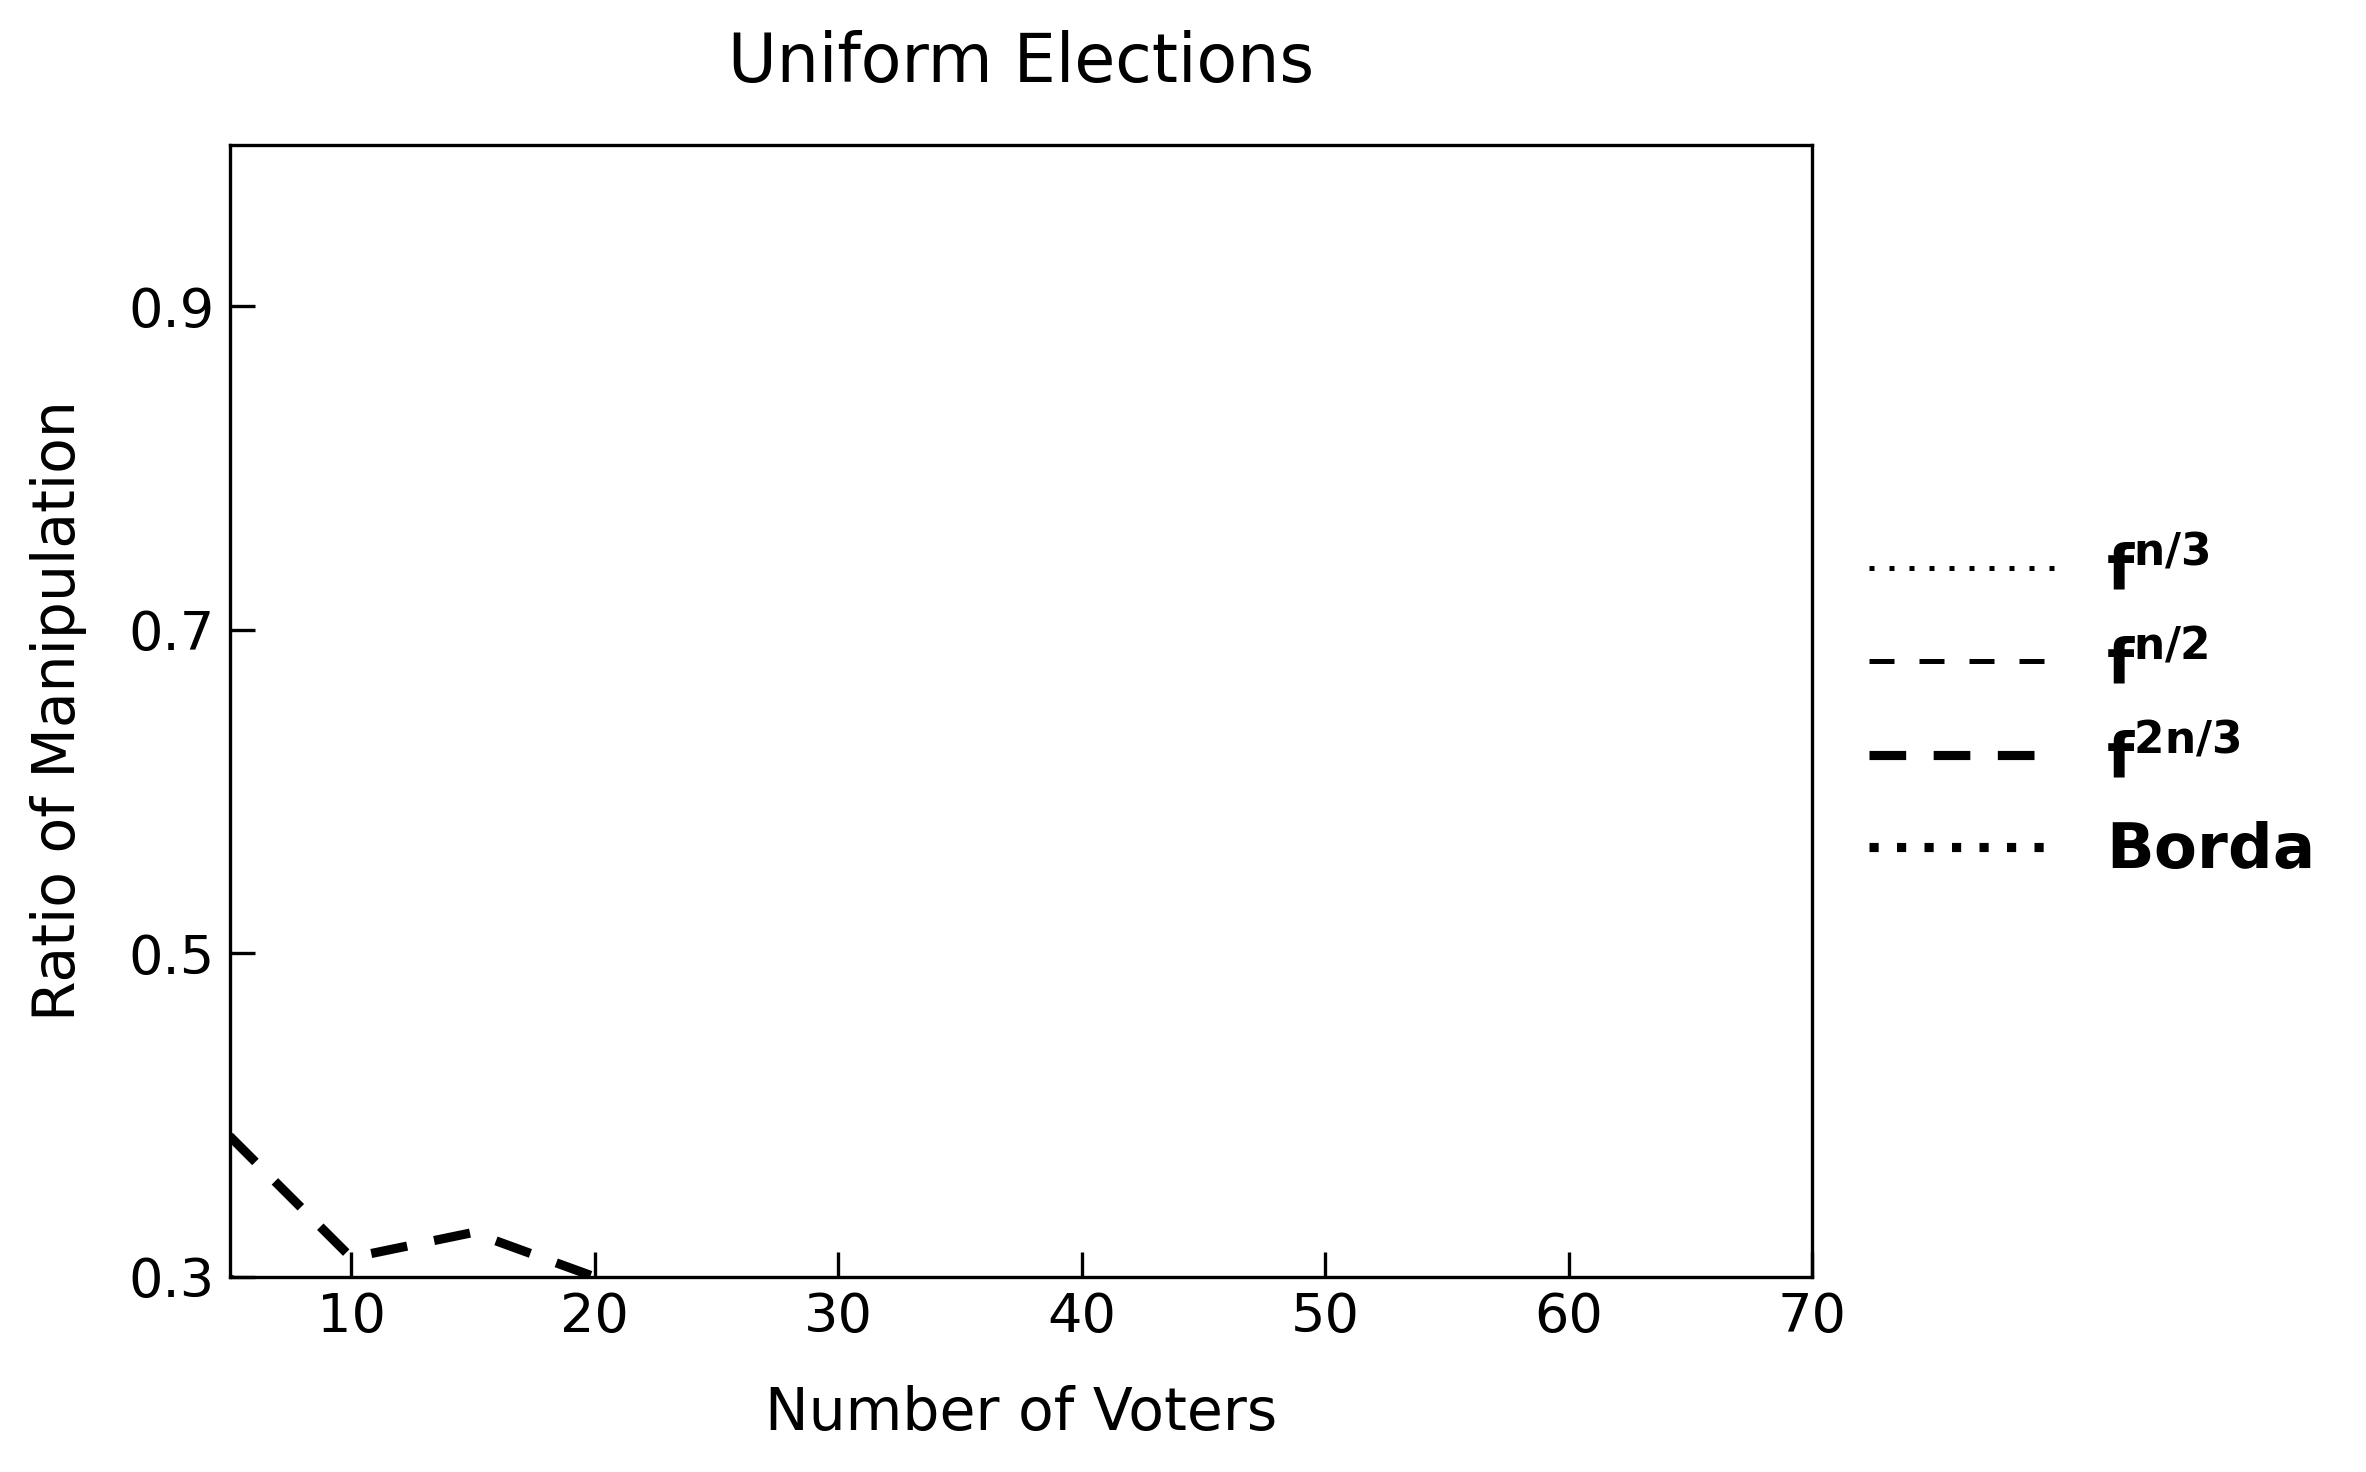
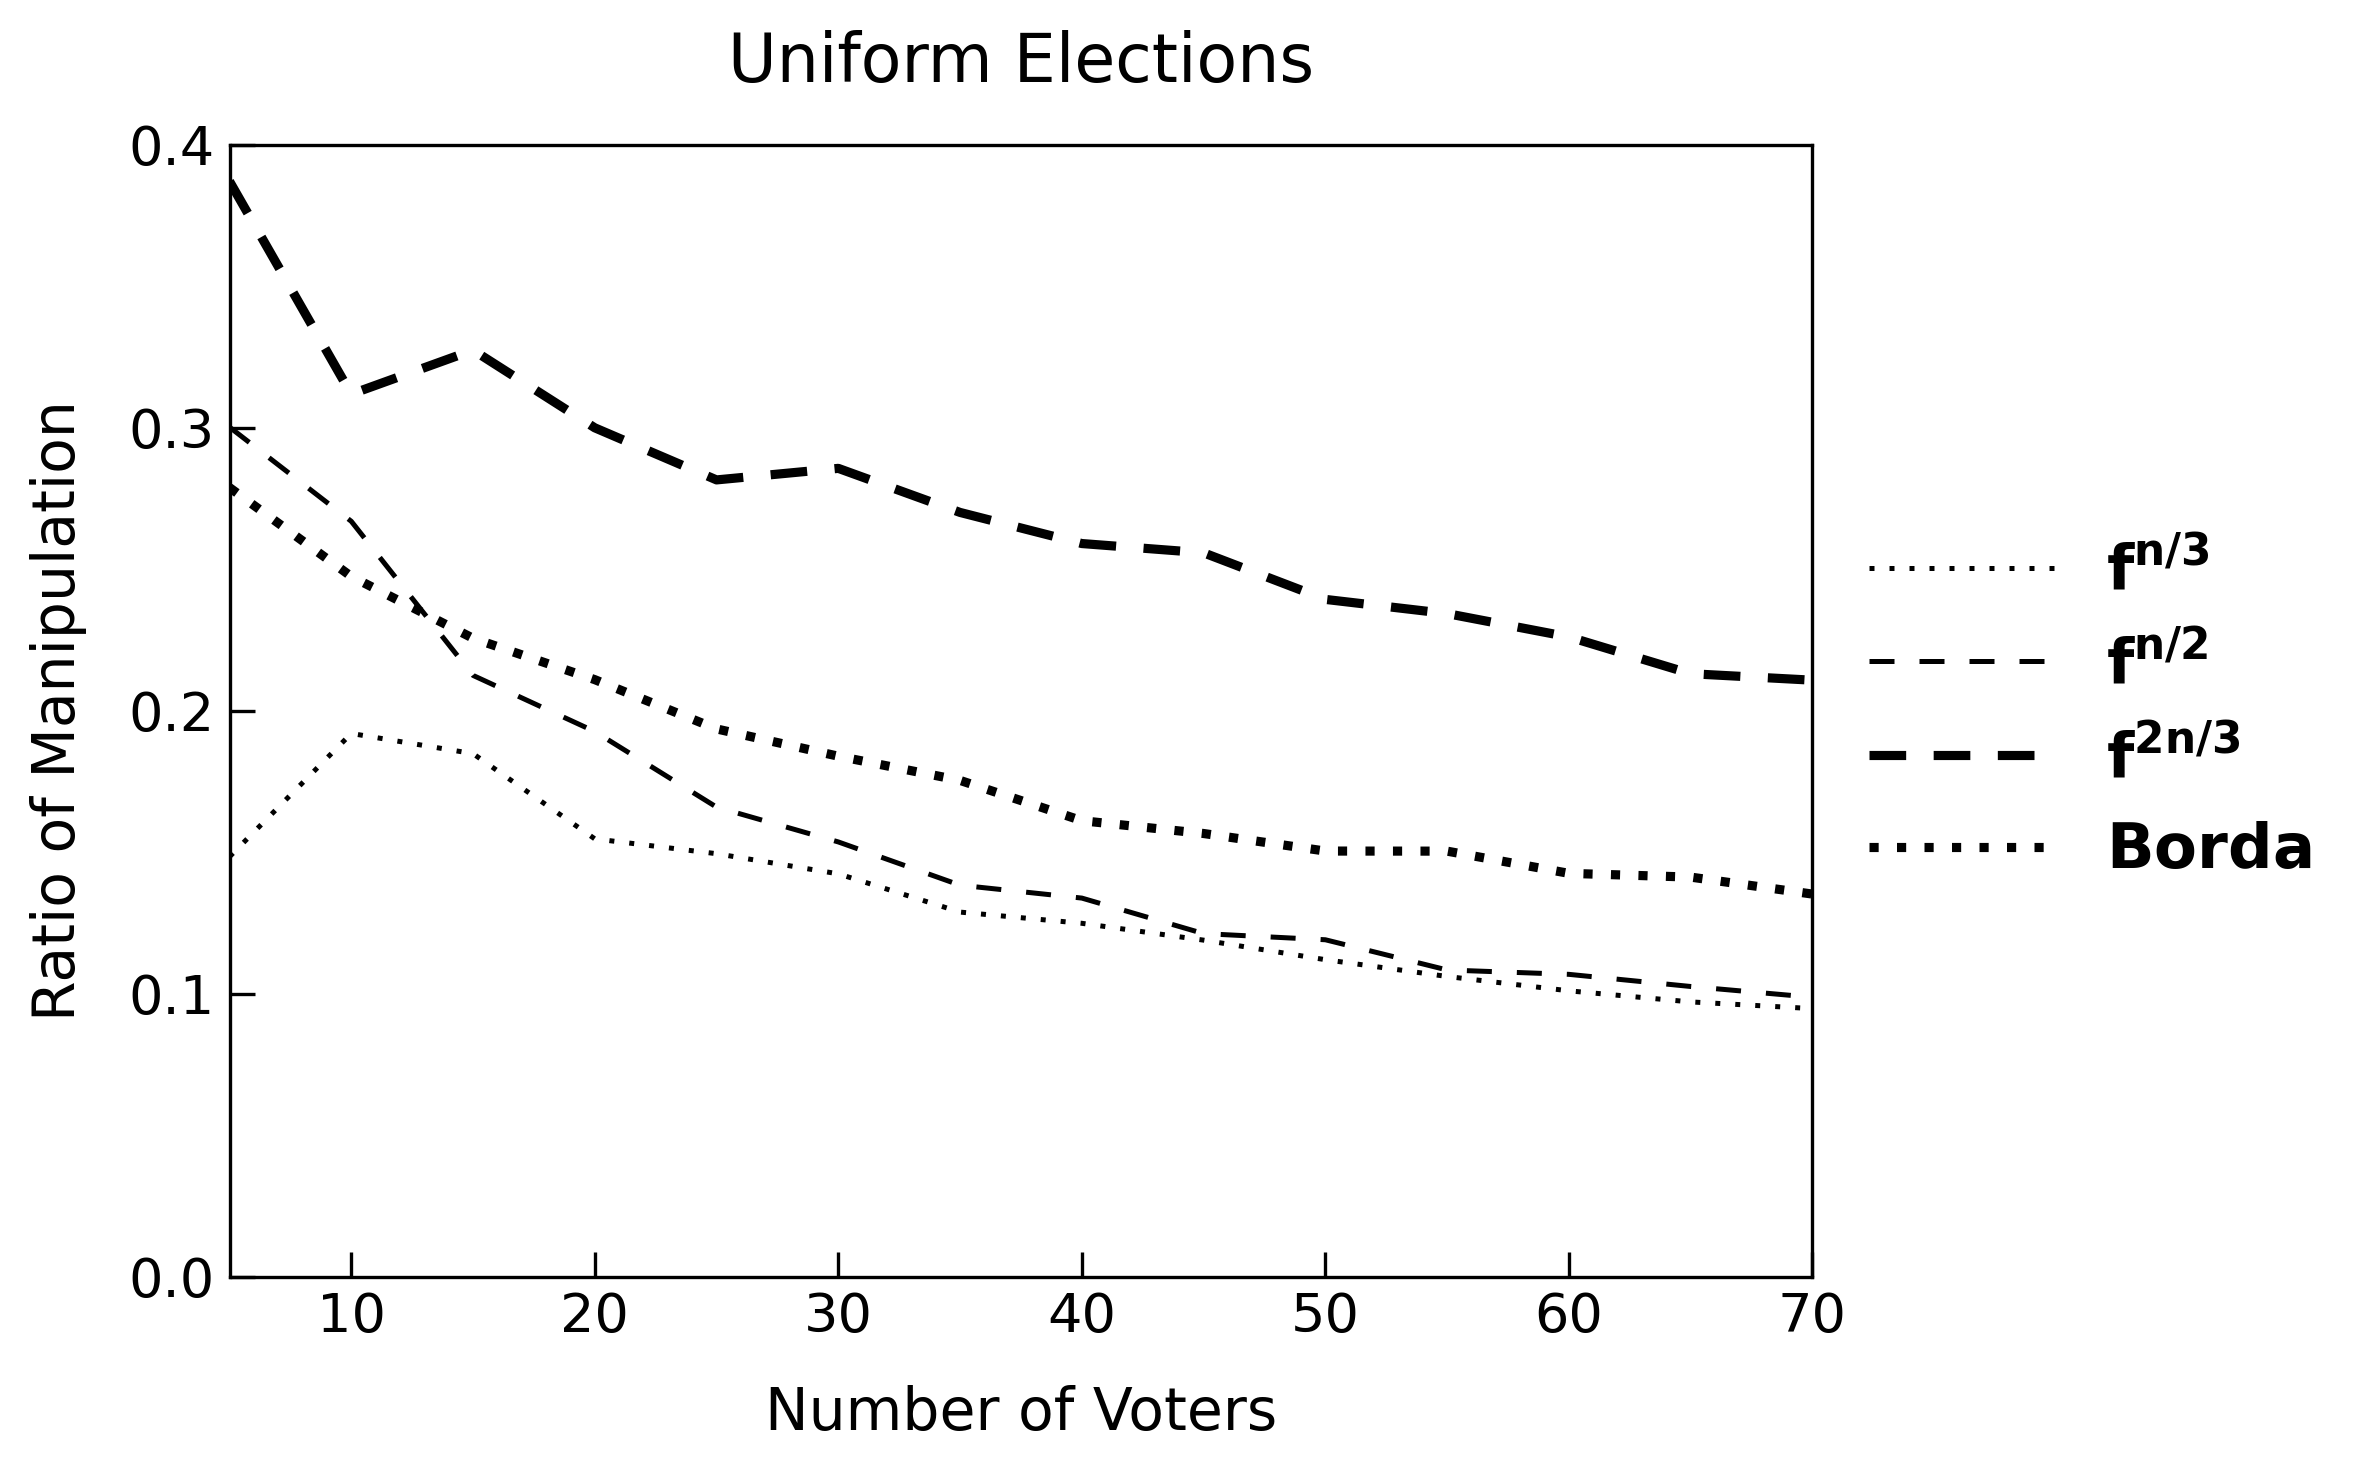
improve resampling experiments

diff --git a/papers/manipulation_of_hamming/tasks.py b/papers/manipulation_of_hamming/tasks.py
@@ -6,6 +6,9 @@ Paths are relative to the repository root.
 """
 
 from manager.spec import experiment
+from papers.manipulation_of_hamming.experiments_enhanced import RESAMPLING_PHIS
+
+PHI_TAGS = [tag for tag, _ in RESAMPLING_PHIS]
 
 PAPER = "manipulation_of_hamming"
 TITLE = "Manipulation of Hamming-based Approval Voting (Barrot, Lang, Yokoo, AAMAS 2017)"
@@ -63,9 +66,9 @@ TASKS = [
               ["experiment_1_iterations_uniform_*.csv", "experiment_1_iterations_biased_*.csv"],
               note="many repeated runs, plotted as a min-max band"),
     *enhanced("exp1", "resampling-integers", "experiment_1_resampling_integers",
-              [f"experiment_1_resampling_integers_{t}.csv" for t in ("phi03", "phi05", "phi08")],
-              figures=[f"plot_experiment_1_resampling_integers_{t}.png" for t in ("phi03", "phi05", "phi08")],
-              note="(p, phi)-resampling, p=0.5, phi in {0.3, 0.5, 0.8}; one figure per phi"),
+              [f"experiment_1_resampling_integers_{t}.csv" for t in PHI_TAGS],
+              figures=[f"plot_experiment_1_resampling_integers_{t}.png" for t in PHI_TAGS],
+              note="(p, phi)-resampling, p=0.5, phi in {0.25, 0.5, 0.75}; one figure per phi"),
 
     # ---- Experiment 2: number of voters -------------------------------------
     *enhanced("exp2", "integers", "experiment_2_integers", ["experiment_2_integers.csv"]),
@@ -82,9 +85,9 @@ TASKS = [
     *enhanced("exp2", "euclidean-uniform-integers", "experiment_2_euclidean_uniform_integers",
               pair("experiment_2_euclidean_uniform_integers", "normal", "triangle")),
     *enhanced("exp2", "resampling-integers", "experiment_2_resampling_integers",
-              [f"experiment_2_resampling_integers_{t}.csv" for t in ("phi03", "phi05", "phi08")],
-              figures=[f"plot_experiment_2_resampling_integers_{t}.png" for t in ("phi03", "phi05", "phi08")],
-              note="(p, phi)-resampling, p=0.5, phi in {0.3, 0.5, 0.8}; one figure per phi"),
+              [f"experiment_2_resampling_integers_{t}.csv" for t in PHI_TAGS],
+              figures=[f"plot_experiment_2_resampling_integers_{t}.png" for t in PHI_TAGS],
+              note="(p, phi)-resampling, p=0.5, phi in {0.25, 0.5, 0.75}; one figure per phi"),
     *enhanced("exp2", "iterations", "experiment_2_iterations", ["experiment_2_iterations_*.csv"],
               note="many repeated runs, plotted as a min-max band"),
 

diff --git a/papers/manipulation_of_hamming/experiments_enhanced/_plot_common.py b/papers/manipulation_of_hamming/experiments_enhanced/_plot_common.py
@@ -269,7 +269,8 @@ def plot_f_pair_figure(stems, titles, base, start_idx=None, end_idx=None, *,
 
 
 def plot_f_single_figure(stem, base, start_idx=None, end_idx=None, *, title="Uniform Elections",
-                         aggregate=False, indexed=True, band_alpha=None, black_text=False):
+                         aggregate=False, indexed=True, band_alpha=None, black_text=False,
+                         ylim=(0.3, 1.0), yticks=(0.3, 0.5, 0.7, 0.9)):
     """Single f-lines panel vs number of voters."""
     if black_text:
         use_black_text()
@@ -291,8 +292,8 @@ def plot_f_single_figure(stem, base, start_idx=None, end_idx=None, *, title="Uni
     ax.set_xlabel("Number of Voters", fontsize=14, labelpad=10)
     ax.set_ylabel("Ratio of Manipulation", fontsize=14, labelpad=10)
     ax.set_xlim(df["n"].min(), df["n"].max())
-    ax.set_ylim(0.3, 1.0)
-    ax.set_yticks([0.3, 0.5, 0.7, 0.9])
+    ax.set_ylim(*ylim)
+    ax.set_yticks(list(yticks))
     ax.tick_params(axis="both", which="major", direction="in", labelsize=13, length=6,
                    right=False, top=False)
     ax.legend(loc="center left", bbox_to_anchor=(1.0, 0.5), frameon=False, fontsize=15,

diff --git a/papers/manipulation_of_hamming/experiments_enhanced/experiment_2_resampling_integers.py b/papers/manipulation_of_hamming/experiments_enhanced/experiment_2_resampling_integers.py
@@ -1,17 +1,13 @@
 """Experiment 2 (manipulability vs number of voters, 5 candidates, integer weights) for the
-(p, phi)-resampling model with p = 0.5 and phi in {0.3, 0.5, 0.8}."""
+(p, phi)-resampling model with p = 0.5 and phi in {0.25, 0.5, 0.75}."""
 from datetime import datetime
 from functools import partial
-from . import RESULTS_DIRECTORY_PATH
+from . import RESAMPLING_P as P, RESAMPLING_PHIS as PHIS, RESULTS_DIRECTORY_PATH
 
 from votekit.ballot_generator.std_generator.approval_impartial_culture import (
     approval_resampling_profile_generator,
 )
 from ..manipulation_of_hamming import experiment_2
-
-P = 0.5
-# (file tag, phi). No dots in the tag: Path.with_suffix would treat ".3" as an extension.
-PHIS = [("phi03", 0.3), ("phi05", 0.5), ("phi08", 0.8)]
 
 WEIGHTS_CONFIG = [
     ("f_2n_3", lambda n: ("f", n * 2 // 3)),

diff --git a/papers/manipulation_of_hamming/experiments_enhanced/experiment_1_resampling_integers.py b/papers/manipulation_of_hamming/experiments_enhanced/experiment_1_resampling_integers.py
@@ -1,17 +1,13 @@
 """Experiment 1 (manipulability vs orness, 25 voters, m = 3, 4, 5, integer weights) for the
-(p, phi)-resampling model with p = 0.5 and phi in {0.3, 0.5, 0.8}."""
+(p, phi)-resampling model with p = 0.5 and phi in {0.25, 0.5, 0.75}."""
 from datetime import datetime
 from functools import partial
-from . import RESULTS_DIRECTORY_PATH
+from . import RESAMPLING_P as P, RESAMPLING_PHIS as PHIS, RESULTS_DIRECTORY_PATH
 
 from votekit.ballot_generator.std_generator.approval_impartial_culture import (
     approval_resampling_profile_generator,
 )
 from ..manipulation_of_hamming import experiment_1
-
-P = 0.5
-# (file tag, phi). No dots in the tag: Path.with_suffix would treat ".3" as an extension.
-PHIS = [("phi03", 0.3), ("phi05", 0.5), ("phi08", 0.8)]
 
 
 def make_params(tag, phi):

diff --git a/papers/manipulation_of_hamming/experiments_enhanced/plot_experiment_2_newmanipulation_integers.py b/papers/manipulation_of_hamming/experiments_enhanced/plot_experiment_2_newmanipulation_integers.py
@@ -2,7 +2,9 @@ from ._plot_common import plot_f_single_figure
 
 
 def plot_experiment_2_newmanipulation_integers():
-    plot_f_single_figure("experiment_2_newmanipulation_integers", "plot_experiment_2_newmanipulation_integers")
+    # per-voter metric: values are well below the 0.3-1.0 range of the other experiment 2 plots
+    plot_f_single_figure("experiment_2_newmanipulation_integers", "plot_experiment_2_newmanipulation_integers",
+                         ylim=(0.0, 0.4), yticks=(0.0, 0.1, 0.2, 0.3, 0.4))
 
 
 if __name__ == "__main__":

diff --git a/papers/manipulation_of_hamming/experiments_enhanced/plot_experiment_2_newmanipulations.py b/papers/manipulation_of_hamming/experiments_enhanced/plot_experiment_2_newmanipulations.py
@@ -2,7 +2,9 @@ from ._plot_common import plot_f_single_figure
 
 
 def plot_experiment_2_newmanipulation():
-    plot_f_single_figure("experiment_2_newmanipulation", "plot_experiment_2_newmanipulation")
+    # per-voter metric: values are well below the 0.3-1.0 range of the other experiment 2 plots
+    plot_f_single_figure("experiment_2_newmanipulation", "plot_experiment_2_newmanipulation",
+                         ylim=(0.0, 0.4), yticks=(0.0, 0.1, 0.2, 0.3, 0.4))
 
 
 if __name__ == "__main__":

diff --git a/papers/manipulation_of_hamming/experiments_enhanced/__init__.py b/papers/manipulation_of_hamming/experiments_enhanced/__init__.py
@@ -5,3 +5,7 @@ RESULTS_DIRECTORY_PATH.mkdir(exist_ok=True)
 
 PLOTS_DIRECTORY_PATH = Path(__file__).resolve().parent / "plots"
 PLOTS_DIRECTORY_PATH.mkdir(exist_ok=True)
+# (p, phi)-resampling experiments: p and (file tag, phi) pairs, shared by runs, plots and tasks.py.
+# No dots in the tag: Path.with_suffix would treat ".25" as an extension.
+RESAMPLING_P = 0.5
+RESAMPLING_PHIS = [("phi025", 0.25), ("phi05", 0.5), ("phi075", 0.75)]

diff --git a/papers/manipulation_of_hamming/experiments_enhanced/plot_experiment_1_resampling_integers.py b/papers/manipulation_of_hamming/experiments_enhanced/plot_experiment_1_resampling_integers.py
@@ -1,11 +1,8 @@
 from pathlib import Path
 import pandas as pd
 
-from . import RESULTS_DIRECTORY_PATH, PLOTS_DIRECTORY_PATH
+from . import PLOTS_DIRECTORY_PATH, RESAMPLING_P as P, RESAMPLING_PHIS as PHIS, RESULTS_DIRECTORY_PATH
 from ._plot_common import plot_m_panels
-
-P = 0.5
-PHIS = [("phi03", 0.3), ("phi05", 0.5), ("phi08", 0.8)]
 
 
 def plot_experiment_1_resampling_integers(directory=None, save_dir=None, show=True):

diff --git a/papers/manipulation_of_hamming/experiments_enhanced/plot_experiment_2_resampling_integers.py b/papers/manipulation_of_hamming/experiments_enhanced/plot_experiment_2_resampling_integers.py
@@ -1,7 +1,5 @@
+from . import RESAMPLING_P as P, RESAMPLING_PHIS as PHIS
 from ._plot_common import plot_f_single_figure
-
-P = 0.5
-PHIS = [("phi03", 0.3), ("phi05", 0.5), ("phi08", 0.8)]
 
 
 def plot_experiment_2_resampling_integers():
